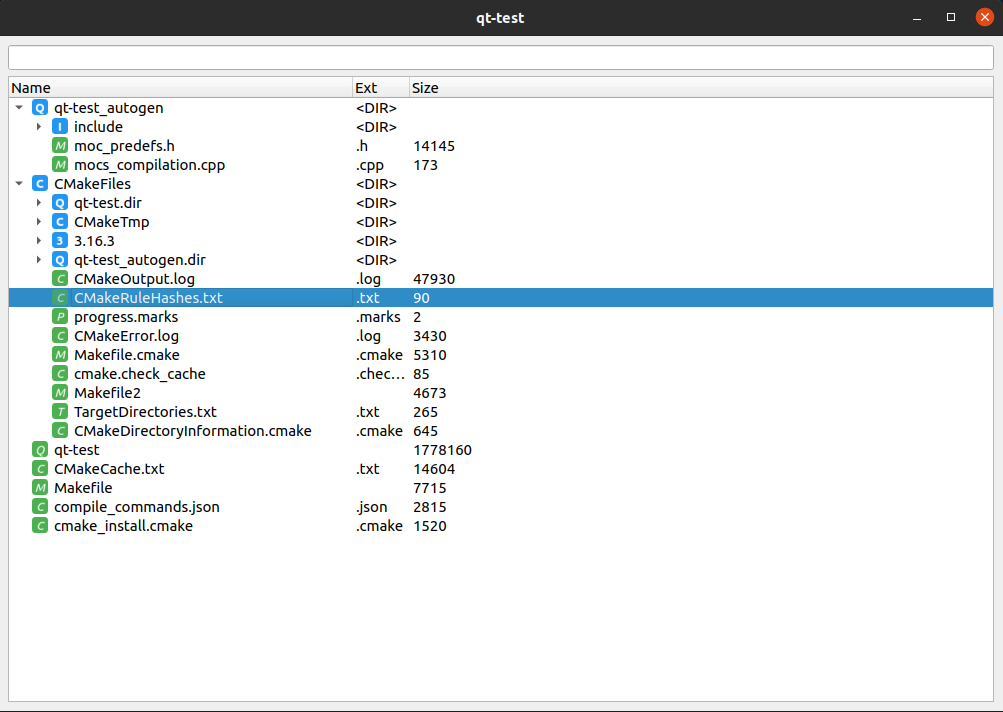
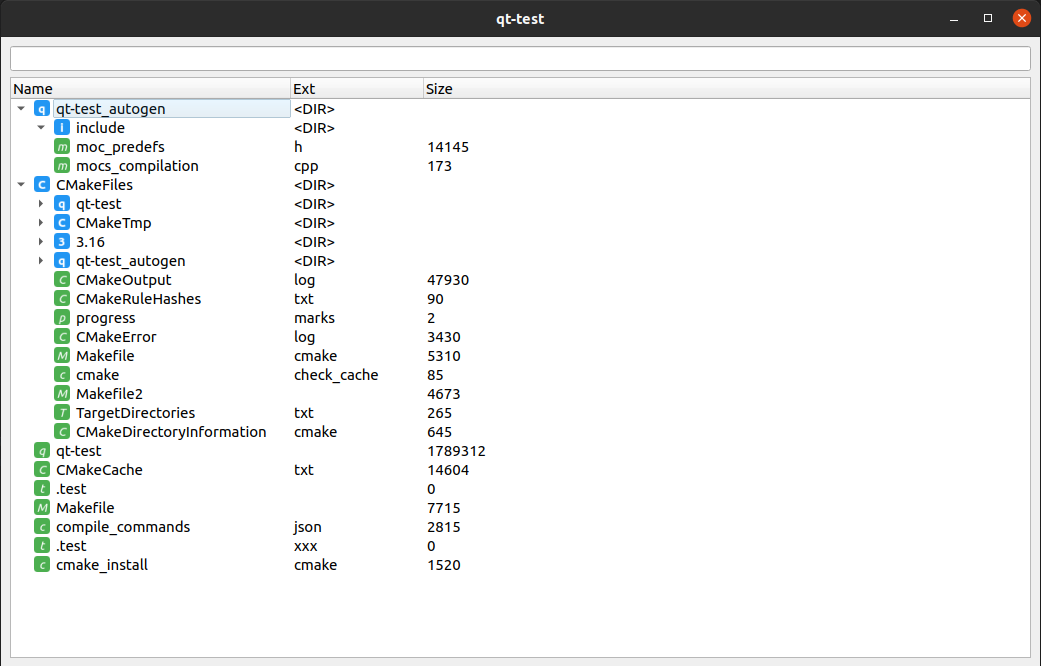
fix name/ext parsing

Changed region(s): [[0.0, 0.0, 1.0, 1.0], [0.2782, 0.7808, 0.34, 0.8709], [0.2782, 0.6907, 0.3091, 0.7207]]

diff --git a/node.cpp b/node.cpp
@@ -22,6 +22,22 @@ FileSystemNode::FileSystemNode(const directory_entry& e, FileSystemNode* p, int 
     fpath(e.path()),
     loaded(!isDirectory())
 {
+    name = fpath.filename().c_str();
+    ext = fpath.extension().c_str();
+    if (name.isEmpty())
+    {
+        name = ext;
+        ext.clear();
+    }
+    else
+        name = name.left(name.count() - ext.count());
+
+    if(isDirectory())
+        ext = "<DIR>";
+
+    if(ext[0] == '.')
+        ext = ext.mid(1);
+
     enum {ICON_SIZE = 20};
     QPixmap pm(ICON_SIZE, ICON_SIZE);
     pm.fill(Qt::transparent);
@@ -34,19 +50,24 @@ FileSystemNode::FileSystemNode(const directory_entry& e, FileSystemNode* p, int 
     QColor bgColor = isDirectory() ? QColor(0x21, 0x96, 0xf3) : QColor(0x4c, 0xaf, 0x50);
     painter.fillPath(path, bgColor);
 
-    const std::string name = fpath.filename().string();
-    if (!name.empty())
+    if (!name.isEmpty())
     {
-        QFont f = painter.font();
-        if(isDirectory())
-            f.setBold(true);
-        else
-            f.setItalic(true);
-        painter.setFont(f);
+        QString n = name;
+        n = n.remove('.');
 
-        QString ch(name[0]);
-        painter.setPen(Qt::white);
-        painter.drawText(QRect(0, 0, ICON_SIZE, ICON_SIZE), Qt::AlignCenter, ch.toUpper());
+        if (!n.isEmpty())
+        {
+            QString ch(n[0]);
+            QFont f = painter.font();
+            if(isDirectory())
+                f.setBold(true);
+            else
+                f.setItalic(true);
+            painter.setFont(f);
+
+            painter.setPen(Qt::white);
+            painter.drawText(QRect(0, 0, ICON_SIZE, ICON_SIZE), Qt::AlignCenter, ch); //ch.toUpper());
+        }
     }
     painter.end();
 
@@ -101,12 +122,10 @@ QVariant FileSystemNode::data(int column, int role) const
     switch(column)
     {
     case COLUMN_NAME:
-        return QString(fpath.filename().c_str());
+        return name;
 
     case COLUMN_EXT:
-        if(isDirectory())
-            return "<DIR>";
-        return QString(fpath.extension().c_str());
+        return ext;
 
     case COLUMN_SIZE:
         if(isDirectory())

diff --git a/node.hpp b/node.hpp
@@ -50,6 +50,8 @@ private:
     bool                     loaded;
     QIcon                    icon;
     FileSystemNodeLoader*    loader = nullptr;
+    QString                  name;
+    QString                  ext;
 
     FileSystemNode(const directory_entry& e, FileSystemNode* p = nullptr, int idx = 0);
 
@@ -60,9 +62,6 @@ class FileSystemNodeLoader
 {
 public:
     FileSystemNodeLoader(FileSystemNode* n);
-
-    int count() const;
-    void operator()();
 
     void wait();
 
